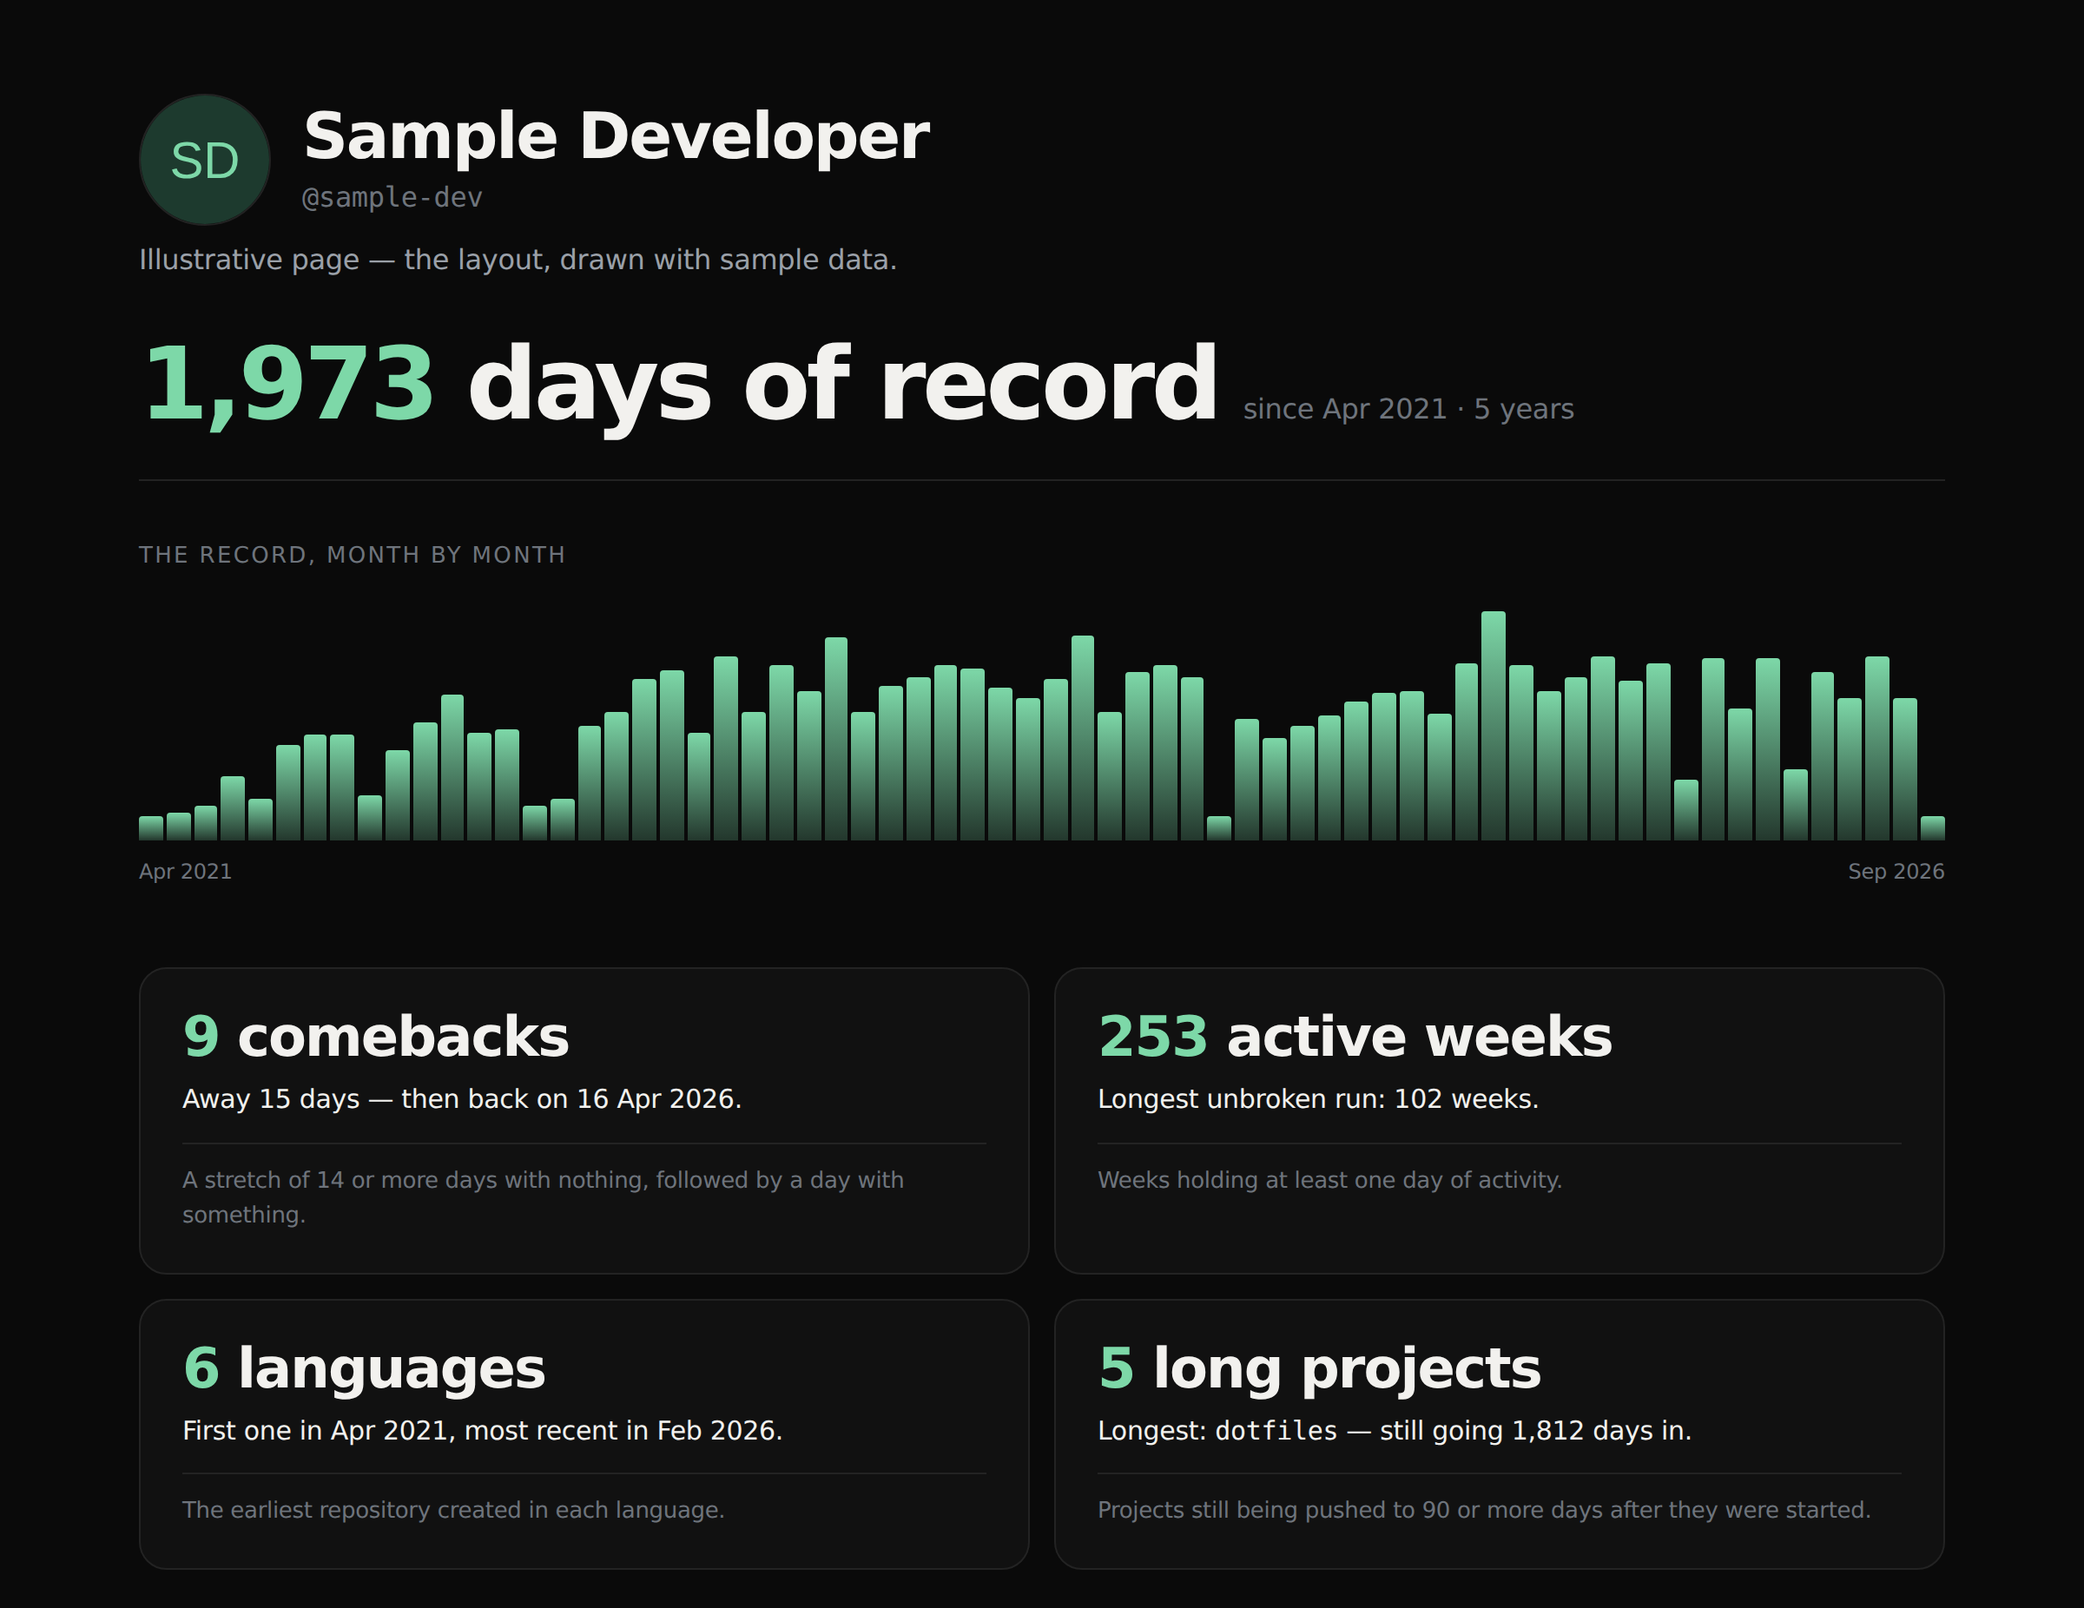
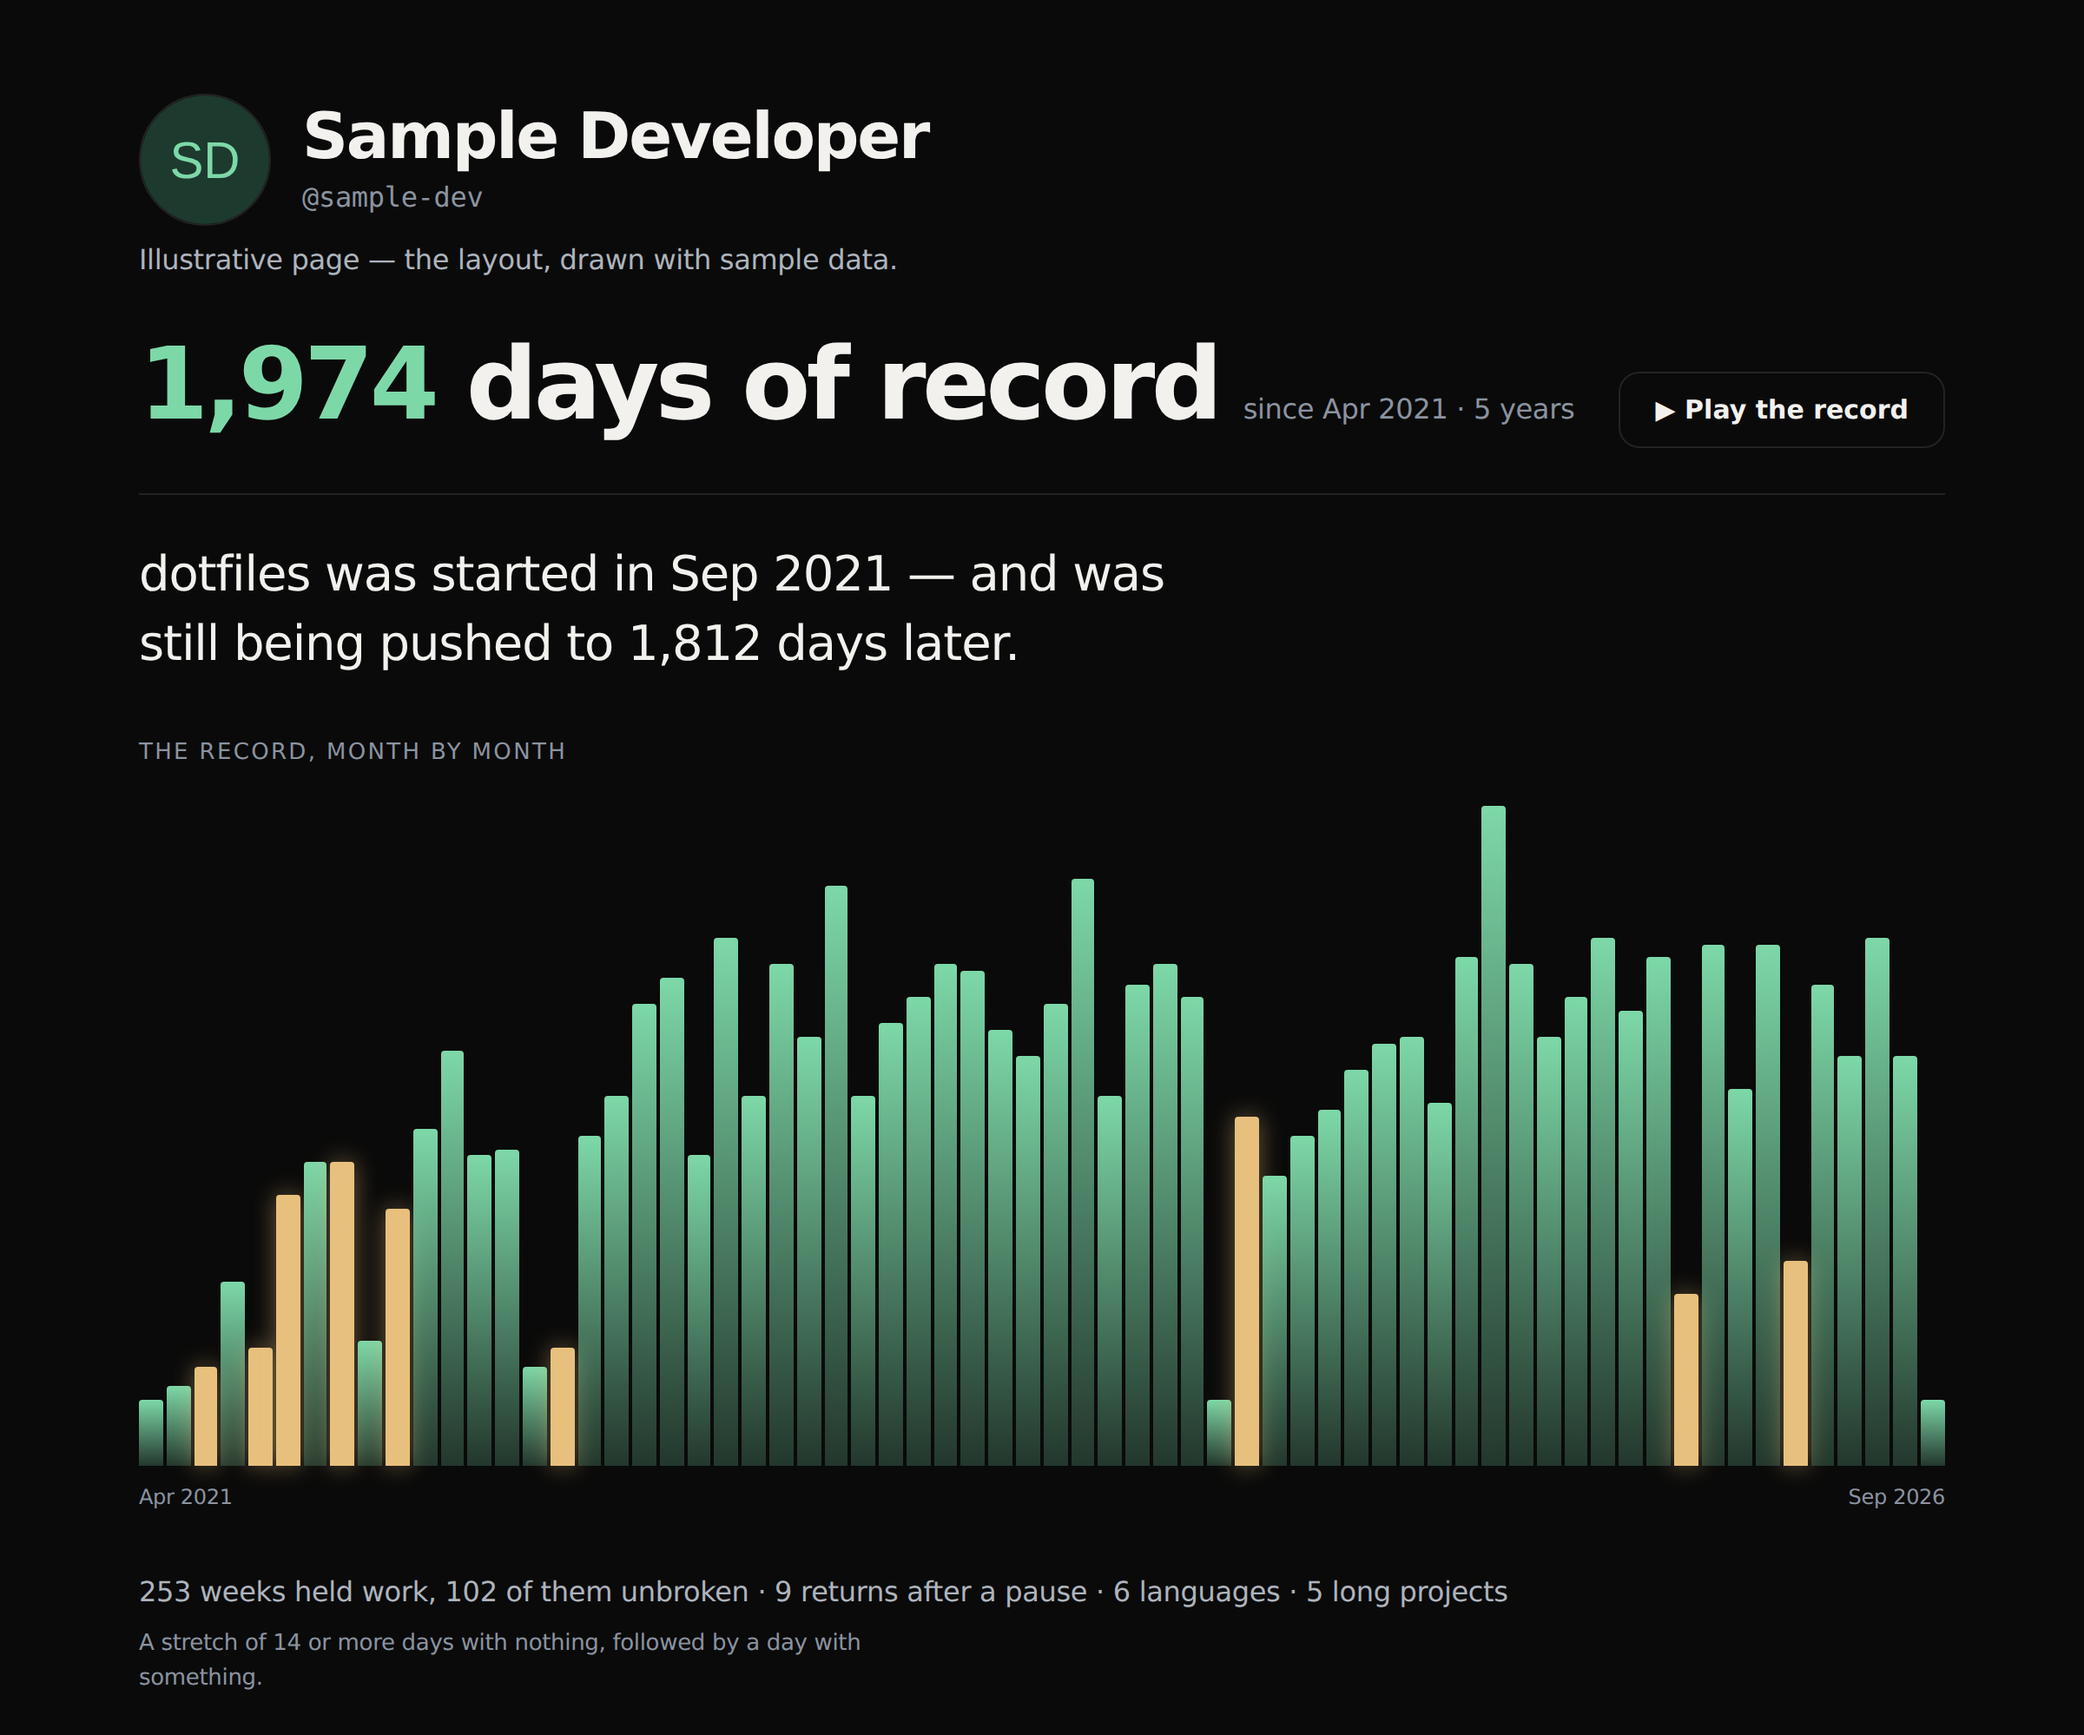
Show the product on the page that describes it
The landing page had ten identical boxes explaining a thing nobody could
see. You had to type your own handle to find out what typing a handle
gets you.

It now shows the record itself and offers three real handles to open —
public accounts rendered from public data, framed as records to look at
rather than anyone's endorsement.

diff --git a/he.html b/he.html
@@ -41,6 +41,14 @@
       <button class="btn" type="submit">להראות את הרישום</button>
     </form>
     <p class="note">חינם. בלי הרשמה, בלי התקנה, בלי לחבר שום דבר. נתונים ציבוריים בלבד.</p>
+
+    <figure class="peek">
+      <img src="/docs/preview.png" alt="רישום: ימים של רישום, החודשים אחד-אחד עם החזרות מסומנות, והספירות מתחת"
+           width="1200" height="700" loading="eager">
+      <figcaption>הפריסה, מצוירת עם נתוני דוגמה. הקלידו שם למעלה לרישום אמיתי —
+        או פתחו את <a href="/@torvalds">@torvalds</a>, <a href="/@sindresorhus">@sindresorhus</a>,
+        <a href="/@simonw">@simonw</a>.</figcaption>
+    </figure>
   </div>
 
   <section>

diff --git a/assets/style.css b/assets/style.css
@@ -273,3 +273,15 @@ section{padding:clamp(48px,7vw,84px) 0; border-top:1px solid var(--line)}
   border:1px solid var(--line); border-radius:100px;
   font-size:.8125rem; color:var(--dim); font-variant-numeric:tabular-nums;
 }
+
+/* The product, on the page that describes it. Nobody typed a handle to find
+   out what typing a handle gets them — so show it, then offer a real one. */
+.peek{margin:40px 0 0; max-width:100%}
+.peek img{
+  display:block; width:100%; height:auto;
+  border:1px solid var(--line); border-radius:var(--r);
+}
+.peek figcaption{margin-top:14px; color:var(--faint); font-size:.875rem; max-width:60ch}
+.peek figcaption a{color:var(--dim); text-decoration:underline; text-underline-offset:3px}
+.peek figcaption a:hover{color:var(--accent)}
+[dir=rtl] .peek figcaption{margin-inline-start:0}

diff --git a/index.html b/index.html
@@ -50,6 +50,14 @@
       <button class="btn" type="submit">See the record</button>
     </form>
     <p class="note">Free. No sign-up, no install, nothing to connect. Public data only.</p>
+
+    <figure class="peek">
+      <img src="/docs/preview.png" alt="A record: days of record, the months one by one with returns marked, and the counts beneath"
+           width="1200" height="700" loading="eager">
+      <figcaption>The layout, drawn with sample data. Put in a handle above for a real one —
+        or open <a href="/@torvalds">@torvalds</a>, <a href="/@sindresorhus">@sindresorhus</a>,
+        <a href="/@simonw">@simonw</a>.</figcaption>
+    </figure>
   </div>
 
   <section>

diff --git a/assets/proof.js b/assets/proof.js
@@ -6,7 +6,7 @@ import { playRecord } from './film.js';
 import { openingLine } from './story.js';
 
 // Replaced at publish time. See scripts/export-proof-public.sh
-const BUILD = '260906.1956';
+const BUILD = '260906.2001';
 
 const esc = (s) => String(s ?? '').replace(/[&<>"']/g, (c) =>
   ({ '&': '&amp;', '<': '&lt;', '>': '&gt;', '"': '&quot;', "'": '&#39;' }[c]));
